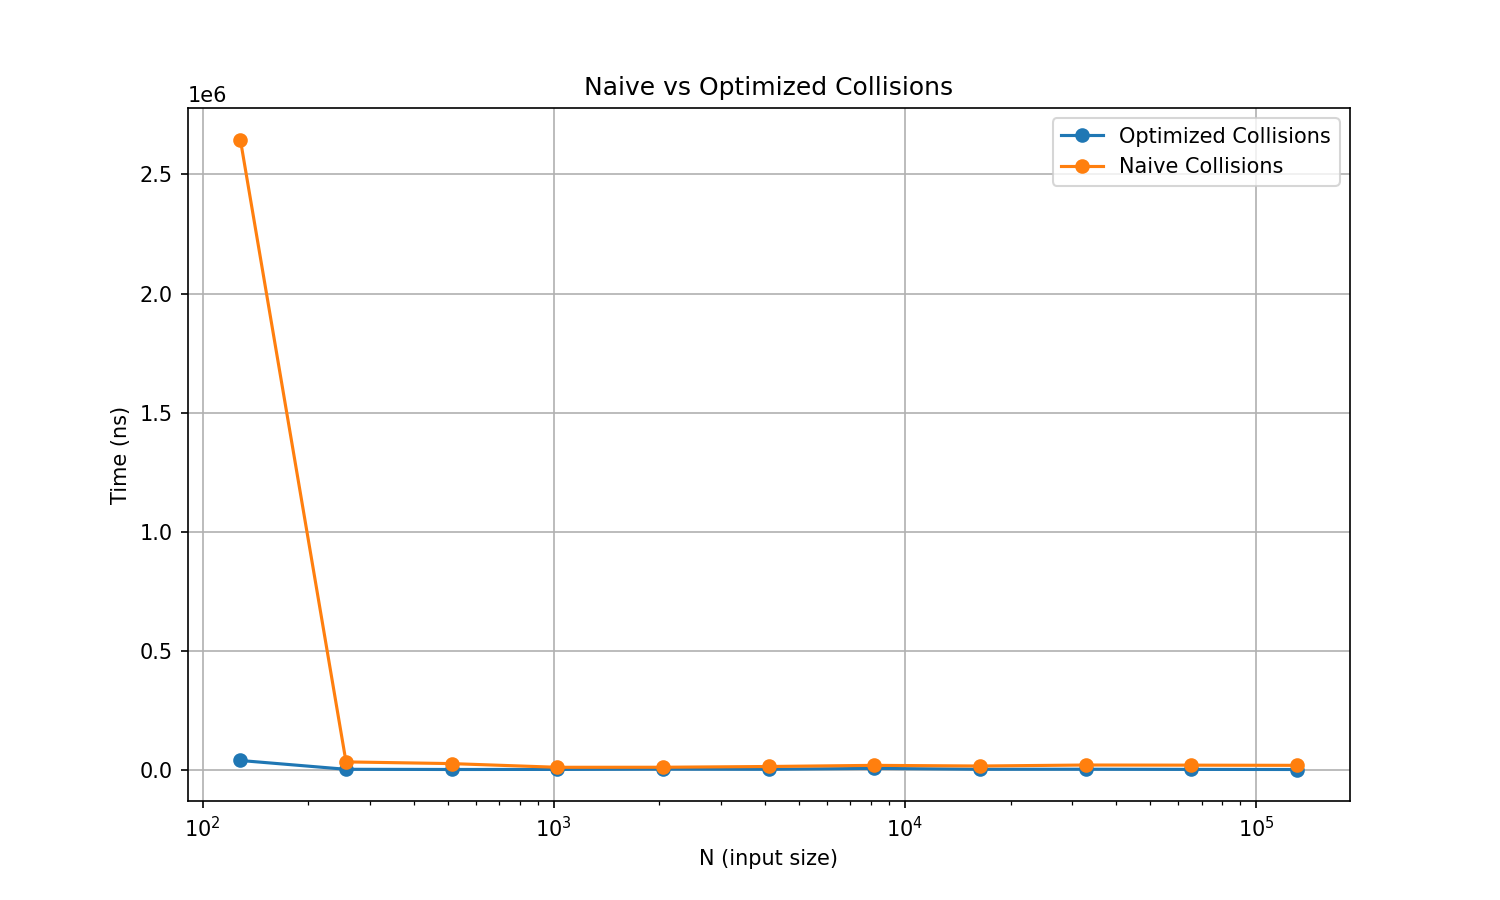
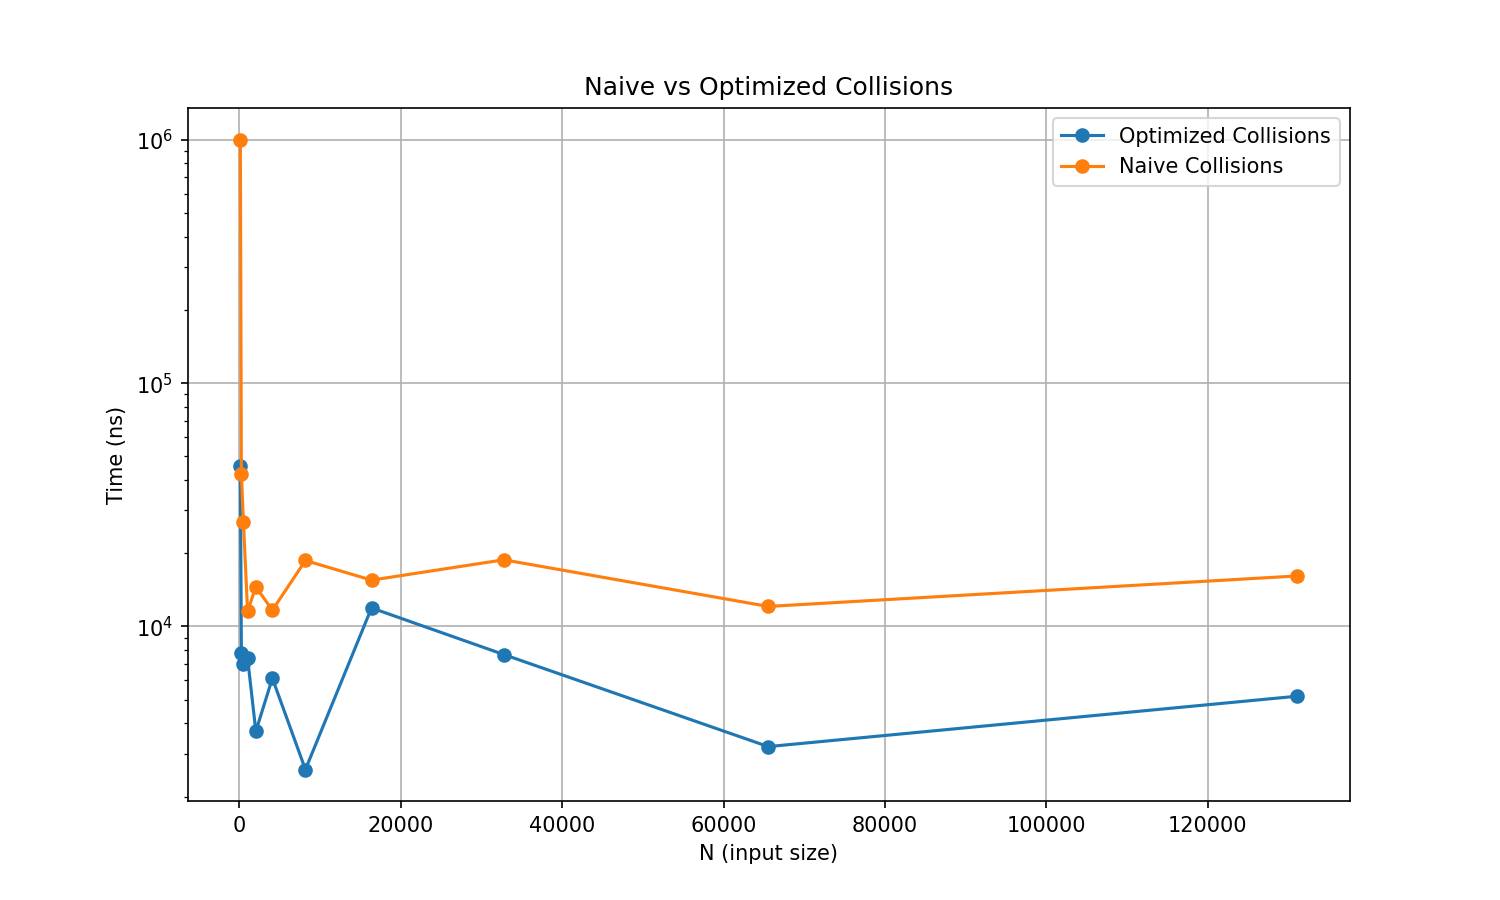
Working on Assignment 9 Analysis

diff --git a/CS6012/Day 18/BSP Trees/src/assignment09/BSPTree.java b/CS6012/Day 18/BSP Trees/src/assignment09/BSPTree.java
@@ -3,6 +3,7 @@ package assignment09;
 import java.util.ArrayList;
 import java.util.Random;
 import java.util.concurrent.atomic.AtomicBoolean;
+import java.util.concurrent.atomic.AtomicReference;
 
 // By Dylan Weiner
 
@@ -157,17 +158,13 @@ public class BSPTree {
     }
 
     public Segment naiveCollision(Segment query) {
-        return naiveCollisionRecursive(query, root);
-    }
-
-    private Segment naiveCollisionRecursive(Segment query, Node current) {
-        AtomicBoolean collisionFound = new AtomicBoolean(false);
-        traverseFarToNear(0, 0,  //they don't matter
-        (segment) -> {
-            if(current.value.intersects(query)){
-                collisionFound.set(true);
-            }
-        });
-        return collisionFound.get() ? current.value : null;
+        AtomicReference<Segment> foundSegment = new AtomicReference<>(null);
+        traverseFarToNear(0, 0,  // coordinates don't matter
+                (segment) -> {
+                    if(segment.intersects(query)) {  // ← Fixed: check 'segment', not 'current.value'
+                        foundSegment.set(segment);   // ← Fixed: store the Segment, not boolean
+                    }
+                }
+        );      return foundSegment.get();
     }
 }

diff --git a/CS6012/Day 18/BSP Trees/src/assignment09/CollisionTiming.java b/CS6012/Day 18/BSP Trees/src/assignment09/CollisionTiming.java
@@ -23,7 +23,7 @@ public class CollisionTiming extends TimerTemplate {
 
     private static Segment COLLIDE_ME = new Segment(0, 15, 100, 20);
 
-    HashMap<Integer, Segment> N_Items = new HashMap<>();
+    ArrayList<Segment> N_Items = new ArrayList<>();
     private final Random rand = new Random();
 
     private static BSPTree bspTree = new BSPTree();
@@ -39,12 +39,14 @@ public class CollisionTiming extends TimerTemplate {
     protected void setup(int n) {
         bspTree = new BSPTree();
 
-        N_Items = new HashMap<>();
+        N_Items.clear();
 
         for (int i = 0; i < n; i++) {
             Segment s = new Segment(i, 0, i, 10);
-            N_Items.put(i, s);
+            N_Items.add(s);
         }
+
+        bspTree.bulkBuild(N_Items);
     }
 
     @Override

diff --git a/CS6012/Day 18/BSP Trees/collision_plot_timing.py b/CS6012/Day 18/BSP Trees/collision_plot_timing.py
@@ -40,7 +40,7 @@ def main():
 
     plt.xlabel("N (input size)")
     plt.ylabel("Time (ns)")
-    plt.xscale('log')
+    plt.yscale('log')
     plt.title("Naive vs Optimized Collisions")
 
     plt.legend()
